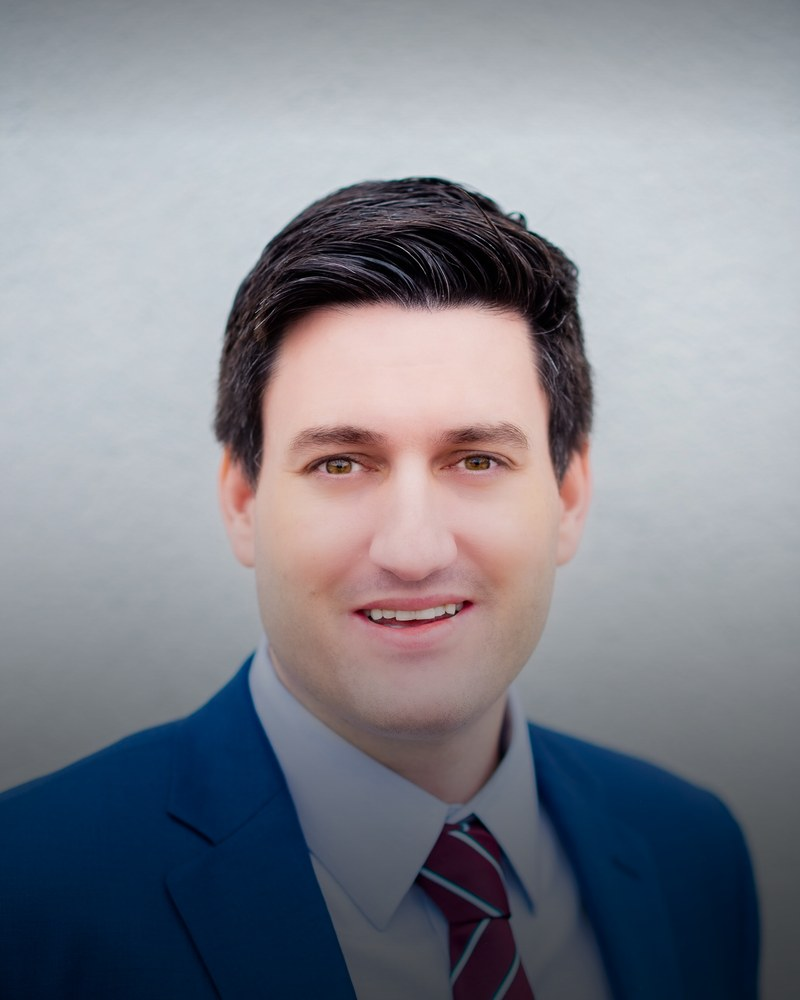
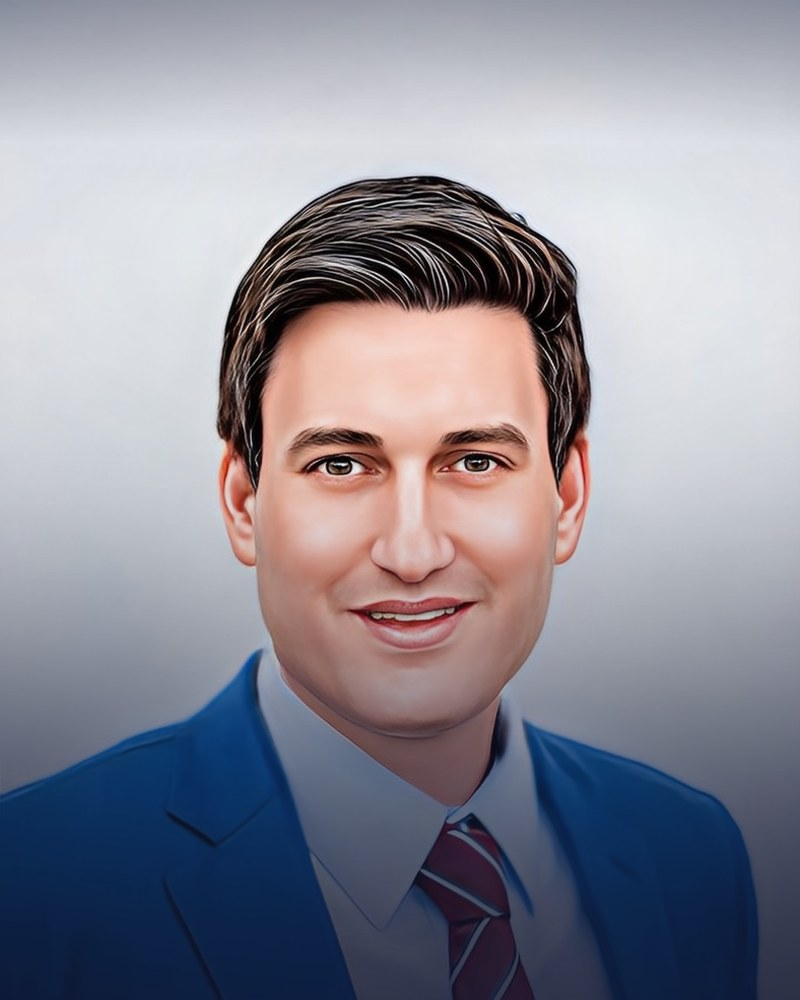
Swap in the illustrated portrait; correct the location to Simpsonville
Portrait: the painted treatment of the studio headshot replaces the
photograph. Same pipeline, --no-trim --focus 0.40, which lands the chin
just above the name plate as before.

This is also the first asset generated since the falloff was tinted
toward the card's navy ground rather than neutral black — the follow-up
left open when the design system changed under this branch. It shows:
the edges now resolve into --profile-ground instead of into a grey halo,
so the image and the scrim read as one surface rather than a picture
sitting on a coloured card.

Location: Greenville → Simpsonville across the profile, the hero chip,
the footer, both chapter locations, and the Person schema's
addressLocality, which was asserting a town Ryan does not live in.

One deliberate exception. The "Arrangement" line in lookingFor now reads
"Remote, or hybrid in the Greenville, SC metro" rather than naming
Simpsonville. That field is about commute reach, and recruiters filter on
the metro; Simpsonville is inside it but is not what anyone searches.
Every field that states where Ryan is says Simpsonville.

Claude-Session: https://claude.ai/code/session_01Ey2DGhrKzVYMCNjRu1Eogn

diff --git a/lib/career.ts b/lib/career.ts
@@ -77,18 +77,20 @@ export const profile: Profile = {
   */
   headline:
     'I build the systems that find revenue — ingestion pipelines, performance analytics, forecast engines, and the tooling that acts on what they surface. Twenty years carrying the number is why they are built around the operator’s P&L.',
-  location: 'Greenville, SC',
+  location: 'Simpsonville, SC',
   email: 'ryandacus@gmail.com',
   phone: '(864) 915-3193',
   publishPhone: false,
   linkedin: 'https://linkedin.com/in/ryandacus-sbc',
   github: 'https://github.com/rydak81',
   /*
-    Generated by scripts/prepare-portrait.py from the studio headshot:
+    Generated by scripts/prepare-portrait.py from the illustrated headshot
+    — a painted treatment of the studio photograph, which reads as a
+    deliberate choice next to a site arguing for craft:
       python3 scripts/prepare-portrait.py <source> --no-trim --focus 0.40
-    --no-trim because a studio backdrop reaches every edge, so matte
-    removal would crop to the subject and eat the headroom. Re-run that
-    command to swap the photograph; nothing else changes.
+    --no-trim because the backdrop reaches every edge, so matte removal
+    would crop to the subject and eat the headroom. Re-run that command to
+    swap the image; nothing else changes.
   */
   portrait: '/portrait.jpg',
   /* Short on purpose — this sets inside a chip on the profile card, and the
@@ -464,7 +466,7 @@ export const chapters: Chapter[] = [
     context:
       'E-commerce SaaS portfolio — MarginPro, CedCommerce, Seller Directories',
     period: 'Jan 2026 – Present',
-    location: 'Remote — Greenville, SC',
+    location: 'Remote — Simpsonville, SC',
     mandate:
       'Primary relationship owner for an agency channel I built from zero — partner ICP, segmentation, recruitment motion, enablement library, onboarding path, and co-sell model — managing multiple organisations at once against quarterly targets for channel-sourced revenue and net-new agreements, and negotiating the terms and commercial structures underneath them.',
     build:
@@ -493,7 +495,7 @@ export const chapters: Chapter[] = [
     org: 'BeaconPath Holdings · Marketplace Beta',
     context: 'Acquisition holding company · e-commerce intelligence platform',
     period: '2024 – Present · concurrent',
-    location: 'Greenville, SC',
+    location: 'Simpsonville, SC',
     mandate:
       'Run concurrently with the roles above, not after them. An acquisition holding company screening cash-flowing operating businesses against a defined thesis, and an e-commerce intelligence publication with a real audience of agency operators.',
     build:
@@ -880,7 +882,7 @@ export const lookingFor: { label: string; lines: string[] }[] = [
   {
     label: 'Arrangement',
     lines: [
-      'Remote, or hybrid from Greenville, SC',
+      'Remote, or hybrid in the Greenville, SC metro',
       'Open to travel for accounts and events',
       'Currently remote and productive that way',
     ],

diff --git a/app/page.tsx b/app/page.tsx
@@ -127,7 +127,7 @@ function Hero() {
               <span className="absolute inline-flex h-full w-full rounded-full bg-[oklch(0.72_0.17_50)] opacity-60" />
               <span className="relative inline-flex h-2 w-2 rounded-full bg-[oklch(0.72_0.17_50)]" />
             </span>
-            Greenville, SC · Revenue operations, analytics &amp; systems
+            Simpsonville, SC · Revenue operations, analytics &amp; systems
           </p>
           {/*
             Fluid display size via clamp() rather than a single md: jump —
@@ -823,7 +823,7 @@ function Footer() {
        viewport; the text stays inside the shell. */
     <footer className="border-t border-line">
       <div className="shell py-8 text-xs leading-relaxed text-fg-3">
-        Ryan Dacus · Greenville, SC · Built with Next.js on Vercel · Every
+        Ryan Dacus · Simpsonville, SC · Built with Next.js on Vercel · Every
         status label on this page means exactly what it says.
       </div>
     </footer>

diff --git a/app/about/page.tsx b/app/about/page.tsx
@@ -75,7 +75,7 @@ const PERSON_LD = {
   url: 'https://ryandacus.com/about',
   address: {
     '@type': 'PostalAddress',
-    addressLocality: 'Greenville',
+    addressLocality: 'Simpsonville',
     addressRegion: 'SC',
     addressCountry: 'US',
   },
